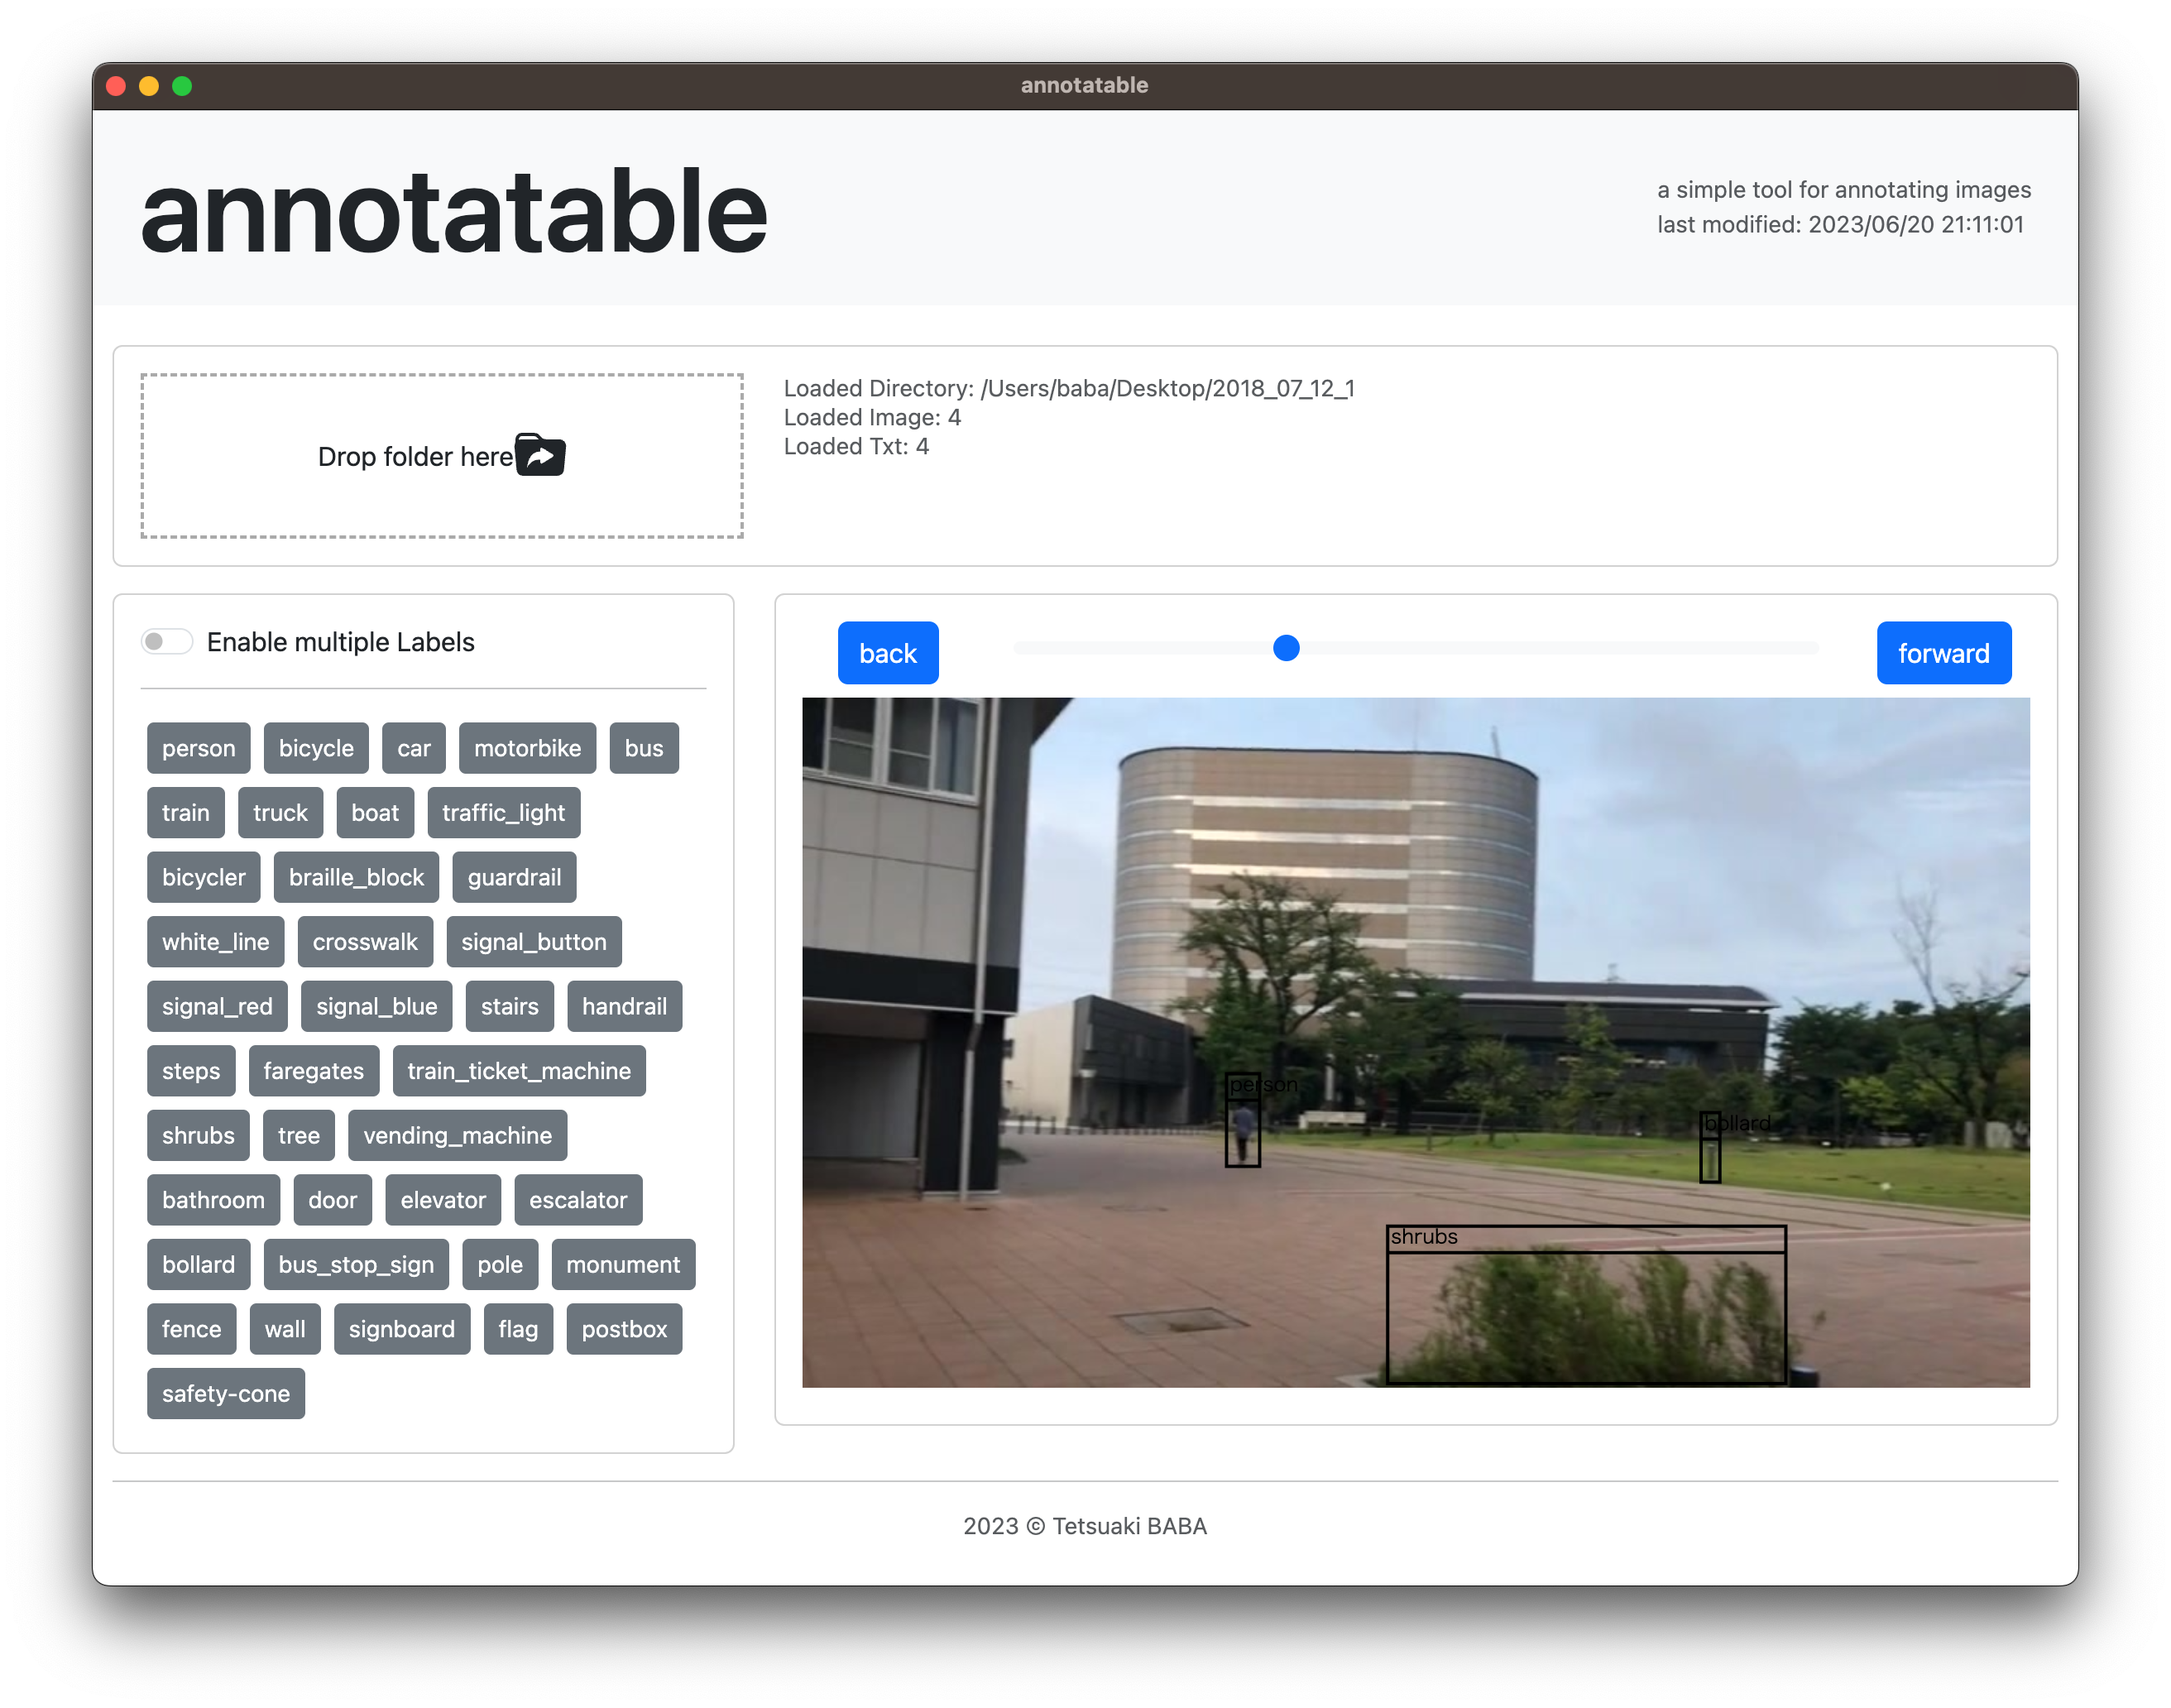
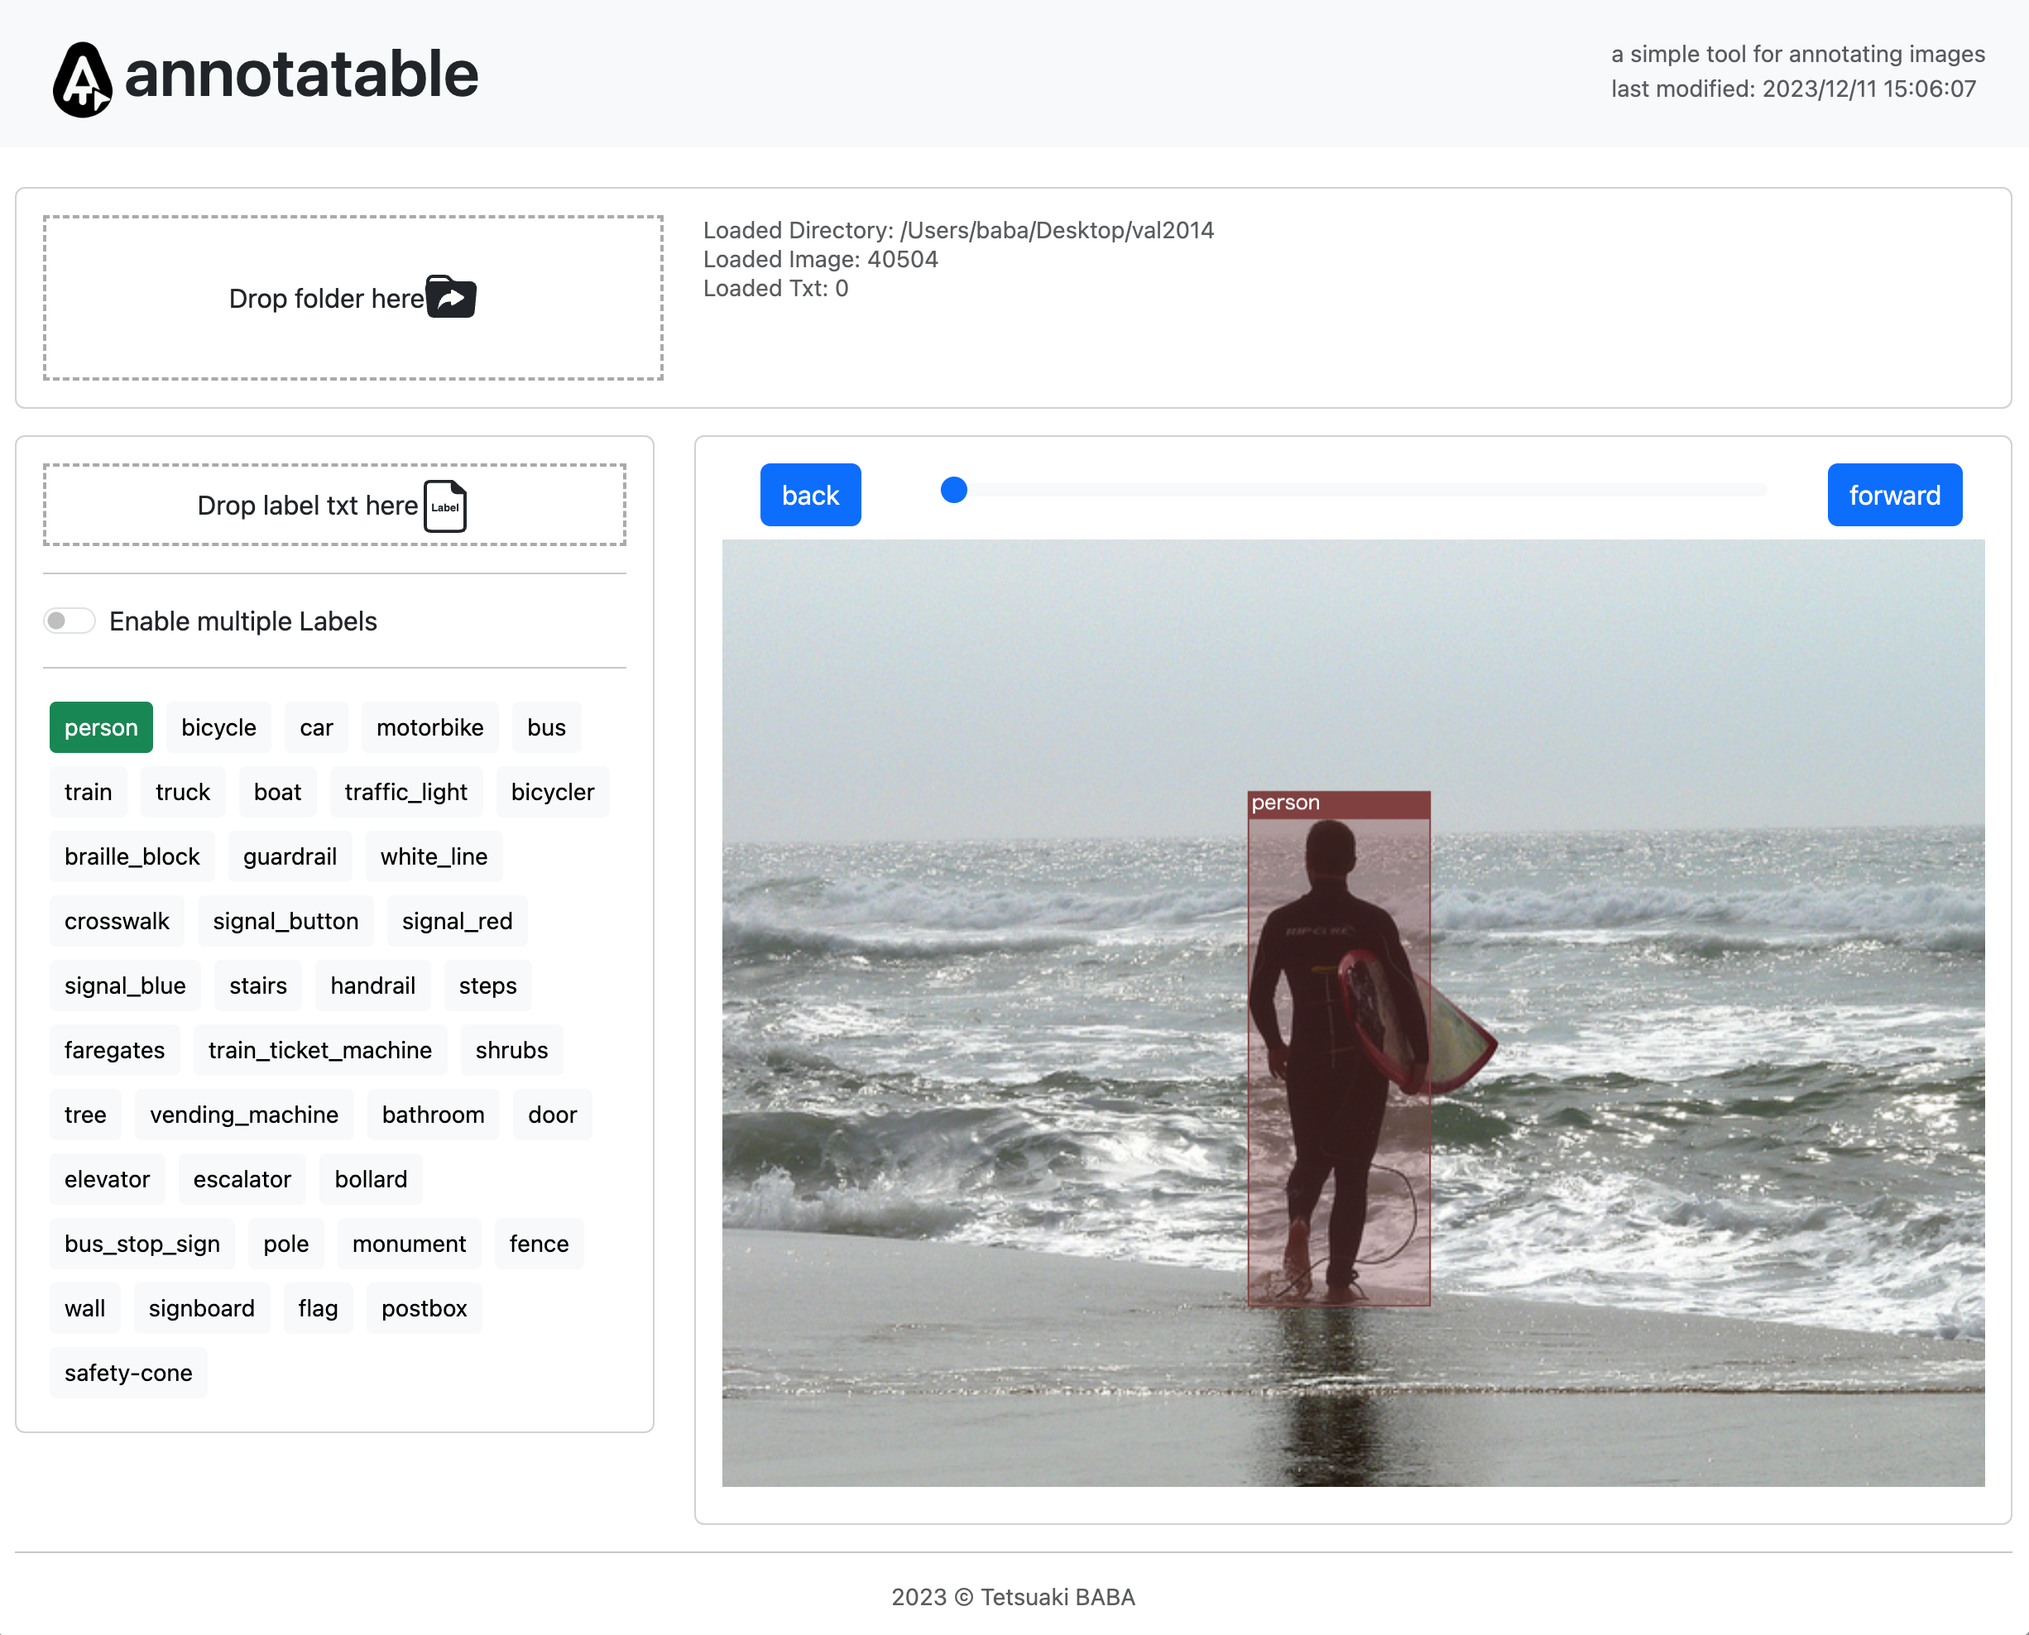
ラベル変更方法の追記と変更

diff --git a/README.md b/README.md
@@ -12,7 +12,12 @@ npm start
 Drag and drop a folder containing images and annotations to the app.
 
 ## Change labels
-You can change labels in `src/labels.js`.
+
+### default labels
+You can change default labels in `src/labels.js`.
+
+### dynamic loading
+You can change labels by drag and drop a file containing labels to the app.
 
 ## Supported annotation format
  * YOLO Objecct Dectection: [label id] [x] [y] [width] [height]
